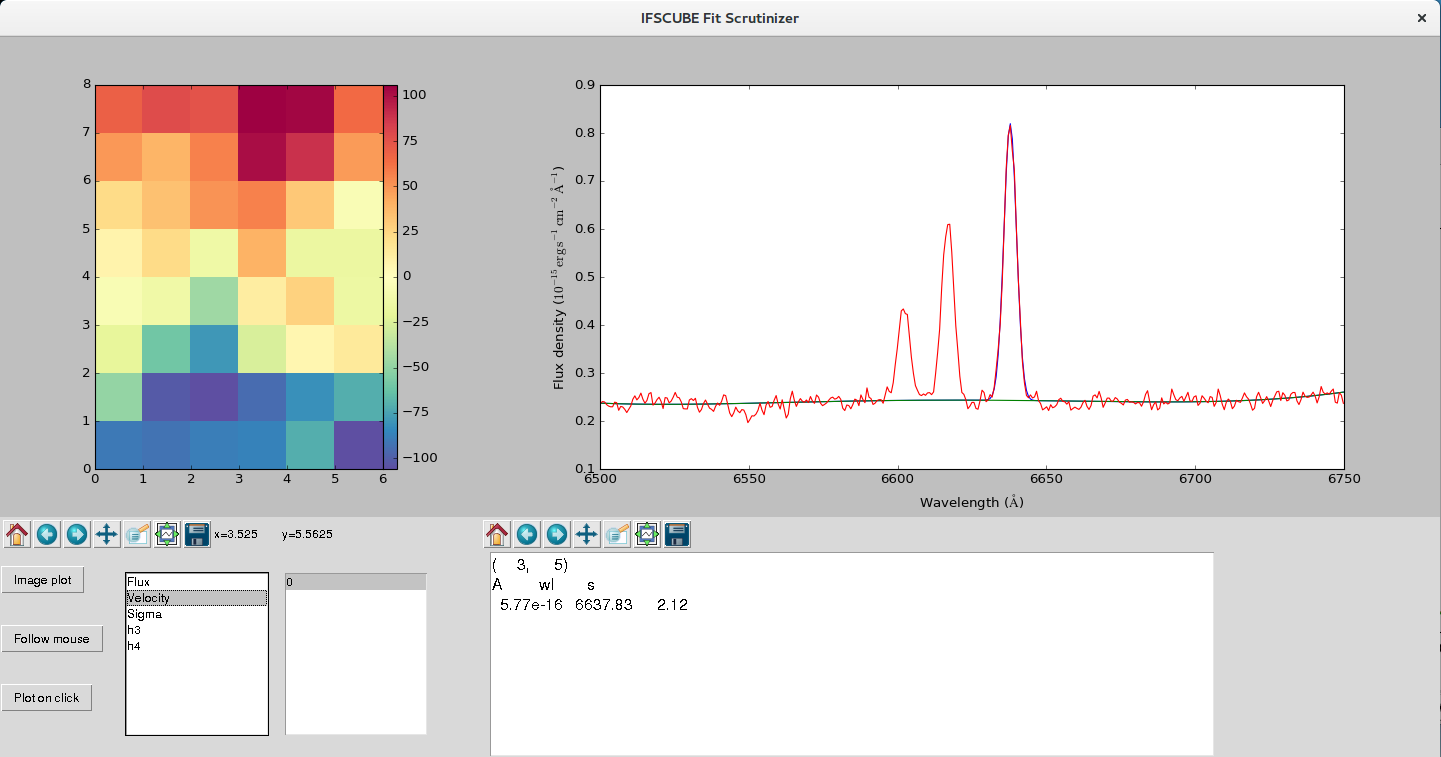
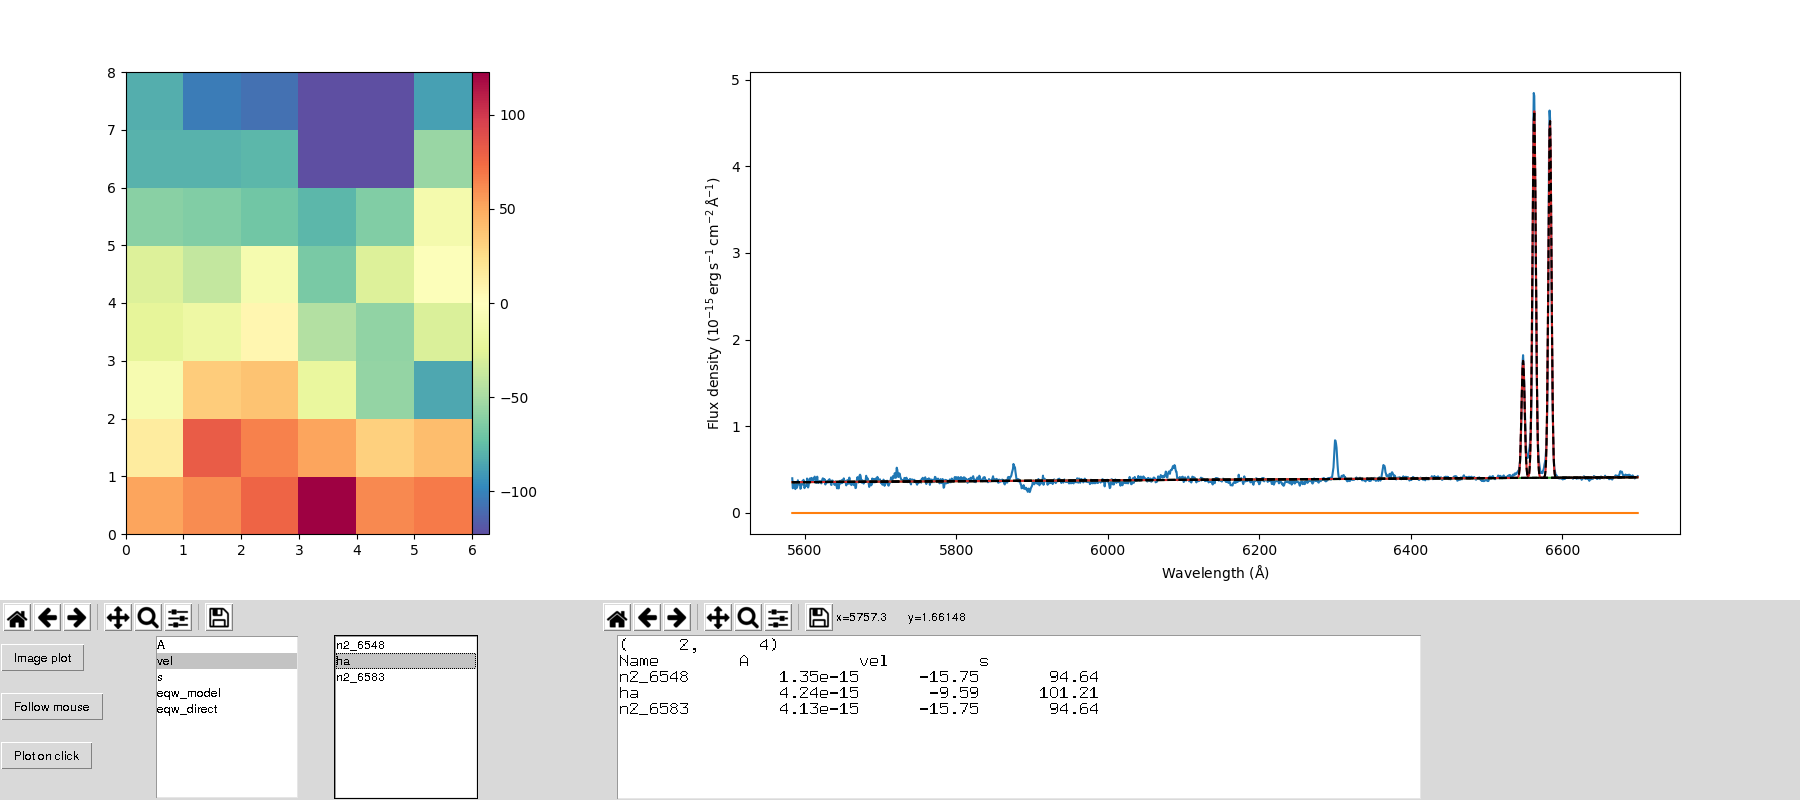
Minor changes to fit_scrutinizer and its docs.

diff --git a/docs/check_fit.rst b/docs/check_fit.rst
@@ -18,7 +18,7 @@ should read
 
 ::
 
-    fit_scrutinizer ngc3081_cube.fits myfit.fits
+    fit_scrutinizer ngc3081_cube_linefit.fits
 
 This will star a GUI similar to the one in the figure below, but
 without any of the plots yet. To start plotting your results you have to
@@ -31,7 +31,7 @@ component in the upper left.
 .. figure:: figs/scrutinizer.png
 
     Example of the interface of the fit_scrutinizer program, showing the
-    velocity image, and the spectrum in the spaxel (3, 5).
+    velocity image, and the spectrum in the spaxel (2, 4).
 
 At this point only the image is visible, but no spectral plot will be
 produced until you click on either “Follow mouse” or “Plot on click”.
